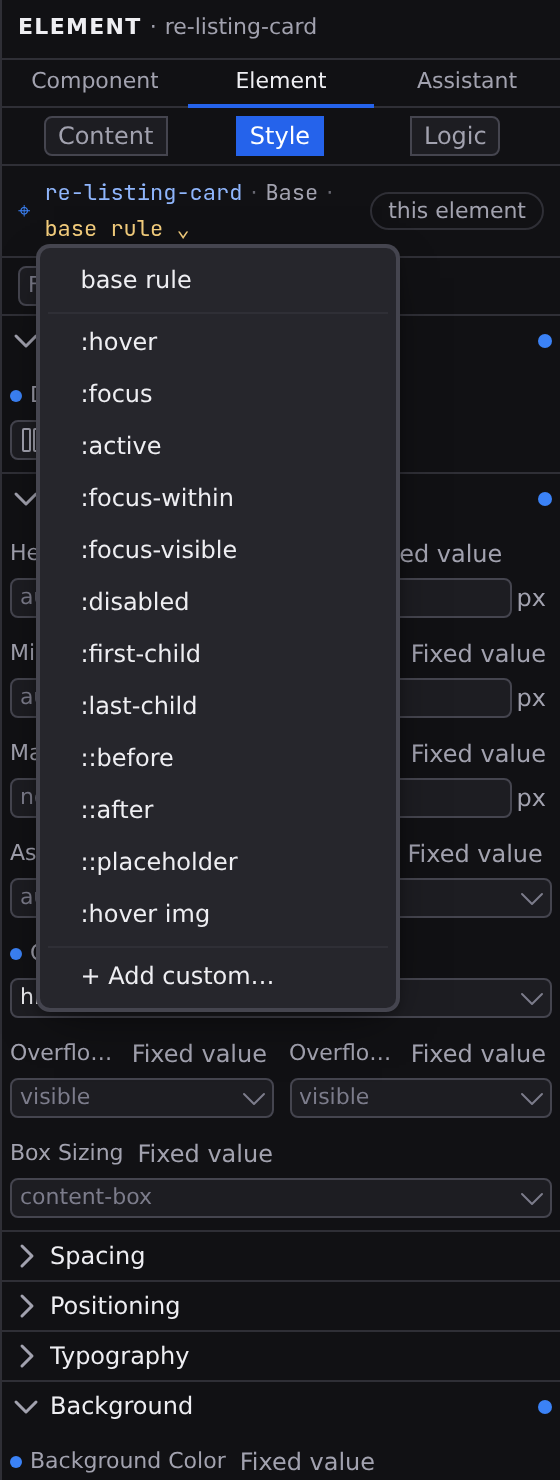
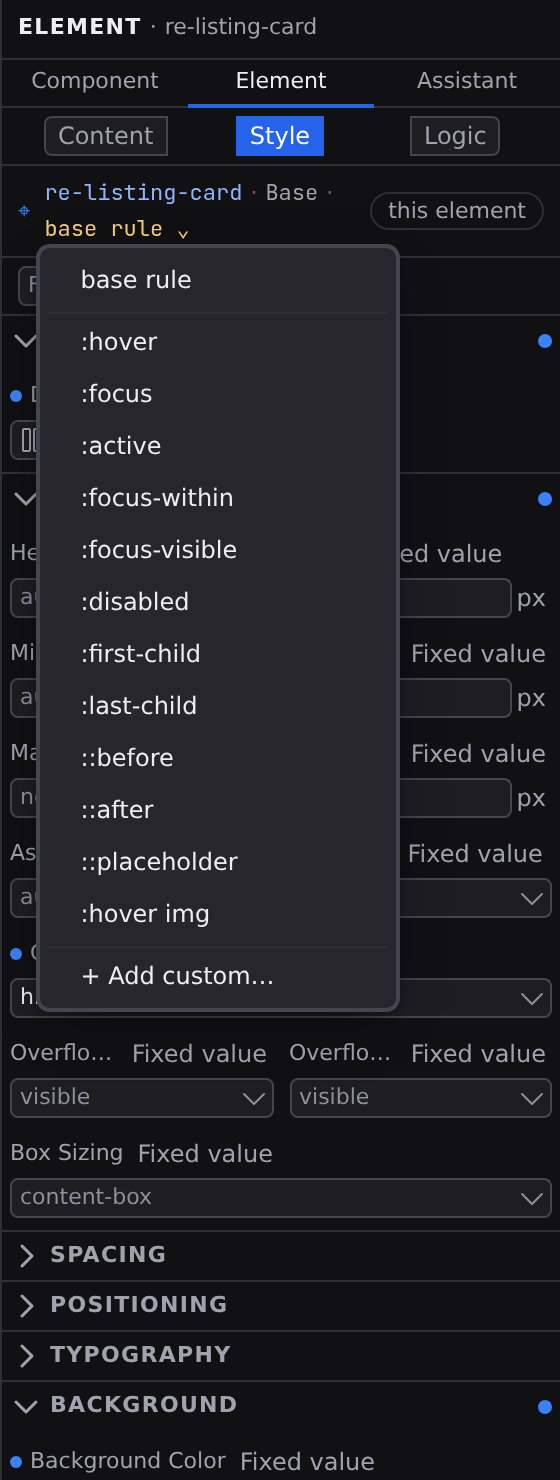
feat(ui): section headings are one recipe, and the accordion draws it (#601)

Changed region(s): [[0.0911, 0.8392, 0.425, 0.9635]]

diff --git a/packages/studio/tests/signals-panel-template.test.ts b/packages/studio/tests/signals-panel-template.test.ts
@@ -51,6 +51,7 @@ import { shell } from "../src/shell";
 import { pluginSchemaCache } from "../src/services/code-services";
 import { isJsonObject } from "@jxsuite/schema/guards";
 import type { JsonObject } from "@jxsuite/schema/types";
+import { readFileSync } from "node:fs";
 
 beforeEach(() => {
   resetStudioState();
@@ -1101,5 +1102,19 @@ describe("reconciliation", () => {
     expect(nativeInput(control(after, "Description", "text"))).toBe(field);
     expect(document.activeElement).toBe(field);
     expect(listedNames(panel)).toEqual(["$a", "$b"]);
+  });
+});
+
+describe("the panel's own parts never reach into the kit's", () => {
+  test("the value preview's rules name the span, so the accordion's <summary> keeps its width", () => {
+    /* The preview is `[part="summary"]` and so is `jx-accordion-item`'s `<summary>`. A bare
+       descendant selector capped BOTH at 64px, which cut every category heading to "Stat…" and
+       "Dat…". Qualifying the rule with the preview's own tag is the whole fix. */
+    const style: unknown = JSON.parse(
+      readFileSync(new URL("../src/surfaces/panel-signals.json", import.meta.url), "utf8"),
+    ).style;
+    const keys = JSON.stringify(style).match(/"[^"]*\[part=\\"summary\\"\][^"]*":/g) ?? [];
+    expect(keys.length).toBeGreaterThan(0);
+    expect(keys.filter((selector) => !selector.includes(String.raw`span[part=\"summary\"]`))).toEqual([]);
   });
 });

diff --git a/packages/ui/tests/theme.test.ts b/packages/ui/tests/theme.test.ts
@@ -3,6 +3,7 @@ import "./with-dom.ts";
 import { getNestedStyle } from "@jxsuite/schema/guards";
 import { buildSiteStyleCSS } from "@jxsuite/site/site-style";
 import project from "../project.json";
+import accordionItem from "../components/jx-accordion-item.json";
 
 import { describe, expect, test } from "bun:test";
 
@@ -212,6 +213,23 @@ describe("theme", () => {
         ).toBeGreaterThanOrEqual(3);
       }
     }
+  });
+
+  test("a section heading is four tokens, and the accordion's summary draws all of them", () => {
+    // `ui.md` §4.1. Studio drew its panel headings in seven combinations of size, tracking and
+    // Weight; the recipe is the kit's now, so a heading reads as a heading wherever it stands and a
+    // Theme retunes every one in one place.
+    expect(themeTokens).toMatchObject({
+      "--jx-heading-size": "var(--jx-text-sm)",
+      "--jx-heading-weight": "600",
+      "--jx-heading-tracking": "0.06em",
+      "--jx-heading-color": "var(--jx-fg-dim)",
+    });
+    const summary = JSON.stringify(accordionItem.style);
+    for (const token of ["size", "weight", "tracking", "color"]) {
+      expect(summary).toContain(`var(--jx-heading-${token})`);
+    }
+    expect(summary).toContain('"textTransform":"uppercase"');
   });
 
   test("muted text keeps 4.5:1 on every surface it is painted on, in both schemes", () => {

diff --git a/specs/ui.md b/specs/ui.md
@@ -102,7 +102,7 @@ The same reasoning governs an element in running text, which must declare `displ
 > **Status: Partial.** The three layers ship: the ramp and the semantic tokens in `packages/ui/project.json`, and Studio's aliases in `packages/studio/styles/tokens.json`. Two claims do not match the theme: `--jx-bg-panel`, `--jx-bg-input`, `--jx-bg-overlay` and `--jx-switch-thumb` pair a raw `#ffffff`, `--jx-accent-fg` is a bare `#ffffff`, and `--jx-handler` and `--jx-map` are `light-dark()` pairs of hexes outside the ramp (`packages/ui/tests/theme.test.ts` holds every semantic colour but `accent-fg` and `accent-solid` to a `light-dark()`, `var()` or `color-mix()` value and refuses a ramp step copied as a raw hex, but nothing refuses a hex from outside the ramp inside a `light-dark()` pair); and `--jx-spin-color` and `--jx-spin-track-color` are not theme tokens at all but `jx-spinner`'s own override hooks, declared in `components/jx-spinner.json`.
 
 1. **Ramp** — `--jx-gray-50…975`, `--jx-blue-*`, `--jx-red-*`, `--jx-green-*`, `--jx-amber-*`: luminance-ordered steps, theme-independent, with quarter steps at the dark end of the neutral ramp because a dark interface lives in a ten-luminance band. The neutral ramp carries a faint cool cast (OKLCH hue about 250, chroma about 0.006) so grey does not read brown beside the accent. Two mid steps, `--jx-gray-450` and `--jx-gray-550`, exist for one token: `--jx-fg-muted` is TEXT (a shortcut, a placeholder, a disabled caption), so it owes WCAG 2.2 SC 1.4.3's 4.5:1 on the page, a panel, a field and an overlay in both schemes, and no whole step meets that while staying quieter than `--jx-fg-dim`. It was `--jx-gray-500` in both schemes, 3.84:1 on the light page and 3.66:1 on a dark popover; `theme.test.ts` now holds the four backgrounds in both schemes, and holds muted below dim so the fix cannot be an alias.
-2. **Semantic** — `--jx-bg`, `--jx-bg-panel`, `--jx-bg-input`, `--jx-bg-overlay`, `--jx-border`, `--jx-border-strong`, `--jx-fg`, `--jx-fg-dim`, `--jx-fg-muted`, `--jx-accent`, `--jx-accent-solid`, `--jx-accent-hover`, `--jx-accent-fg`, `--jx-accent-8…50`, `--jx-hover-bg`, `--jx-danger`, `--jx-success`, `--jx-warning`, `--jx-tag`, `--jx-signal`, `--jx-handler`, `--jx-map`, `--jx-switch-c`, `--jx-switch-track`, `--jx-switch-thumb`, `--jx-field-label-w`, `--jx-popover-offset`, `--jx-spin-color`, `--jx-spin-track-color`. Every colour is a `light-dark()` pair over ramp steps or a mix of another token; none names a hex outside the ramp. Two of those names are a trap worth stating: `--jx-switch-c` is the colour the canvas and the code views paint the `$switch` KEYWORD, which is why it sits in the syntax run beside `--jx-tag` and `--jx-handler`; `jx-switch` the control draws on `--jx-switch-track` and `--jx-switch-thumb`. The track is one ramp step rather than a `light-dark()` pair because only one step clears WCAG 1.4.11's 3:1 on all four of its axes at once, against the page and against its own thumb in each scheme.
+2. **Semantic** — `--jx-bg`, `--jx-bg-panel`, `--jx-bg-input`, `--jx-bg-overlay`, `--jx-border`, `--jx-border-strong`, `--jx-fg`, `--jx-fg-dim`, `--jx-fg-muted`, `--jx-accent`, `--jx-accent-solid`, `--jx-accent-hover`, `--jx-accent-fg`, `--jx-accent-8…50`, `--jx-hover-bg`, `--jx-danger`, `--jx-success`, `--jx-warning`, `--jx-tag`, `--jx-signal`, `--jx-handler`, `--jx-map`, `--jx-switch-c`, `--jx-switch-track`, `--jx-switch-thumb`, `--jx-heading-size`, `--jx-heading-weight`, `--jx-heading-tracking`, `--jx-heading-color` (the section-heading recipe: `sm` type, 600, 0.06em, uppercase in the element that draws it, in `--jx-fg-dim`; `jx-accordion-item`'s summary draws it, and Studio's panel headings read the same four tokens instead of the seven size/tracking/weight combinations they had drifted into), `--jx-field-label-w`, `--jx-popover-offset`, `--jx-spin-color`, `--jx-spin-track-color`. Every colour is a `light-dark()` pair over ramp steps or a mix of another token; none names a hex outside the ramp. Two of those names are a trap worth stating: `--jx-switch-c` is the colour the canvas and the code views paint the `$switch` KEYWORD, which is why it sits in the syntax run beside `--jx-tag` and `--jx-handler`; `jx-switch` the control draws on `--jx-switch-track` and `--jx-switch-thumb`. The track is one ramp step rather than a `light-dark()` pair because only one step clears WCAG 1.4.11's 3:1 on all four of its axes at once, against the page and against its own thumb in each scheme.
 3. **Aliases** — Studio's own `--bg`, `--fg`, `--accent`, … resolve these (`--bg: var(--jx-bg, #111114)`), so the names its style gate checks keep their shape and the values change in one place. A site overrides a token by declaring `--jx-*` on `:root` in its own `style`.
 
 ### 4.2 Declaration

diff --git a/docs/extending/ui-kit.md b/docs/extending/ui-kit.md
@@ -576,6 +576,8 @@ Give several of them the same `name` to make the group exclusive, so opening one
 
 `label` is required. It is written as the summary's accessible name rather than left to name-from-content, because the actions row sits inside the summary and would otherwise be read as part of the section's name. Two slots decorate the summary: `heading` for a mark beside the label, and `actions` for a control that stays visible while the section is shut. A click on a control in `actions` runs the control and does not toggle the section; a click on the row's own empty space toggles nothing either. An inert mark belongs in `heading`, because a non-interactive element slotted into `actions` still toggles the section. `level`, a number, opts the label into heading semantics so a long panel can be skimmed by heading navigation. The cost is that the label is announced twice when reading linearly, once as the heading and once as the disclosure, which is why it is opt-in.
 
+The heading is drawn as a section heading: small, uppercase, slightly spaced and semibold, in the label colour, so a section stands apart from the rows inside it. The look comes from four theme tokens, `--jx-heading-size`, `--jx-heading-weight`, `--jx-heading-tracking` and `--jx-heading-color`. Use the same four on any heading of your own that labels a group, and override them in your theme to restyle every section heading at once.
+
 `open` is two-way: the platform writes it when the reader opens the section and you may write it to open or close one. Written as a property it does not reflect onto the host's attribute, so read it as a property or from `toggle` rather than with `getAttribute`.
 
 Put them in a `jx-accordion` to draw them as one stack, with a hairline between sections and none above the first visible one. Its `multiple` prop, `true` by default, is advisory: it writes down whether more than one section may stand open, and the platform's own switch for exclusivity is `name` on each section, which only the section may carry. Set `multiple` to `false` and make it true by giving every item the same `name`.

diff --git a/specs/changes/ui-c41b0799.md b/specs/changes/ui-c41b0799.md
@@ -1,0 +1,6 @@
+---
+spec: ui.md
+level: minor
+---
+
+four --jx-heading-* tokens are the section-heading recipe; jx-accordion-item's summary and Studio's panel headings draw them
